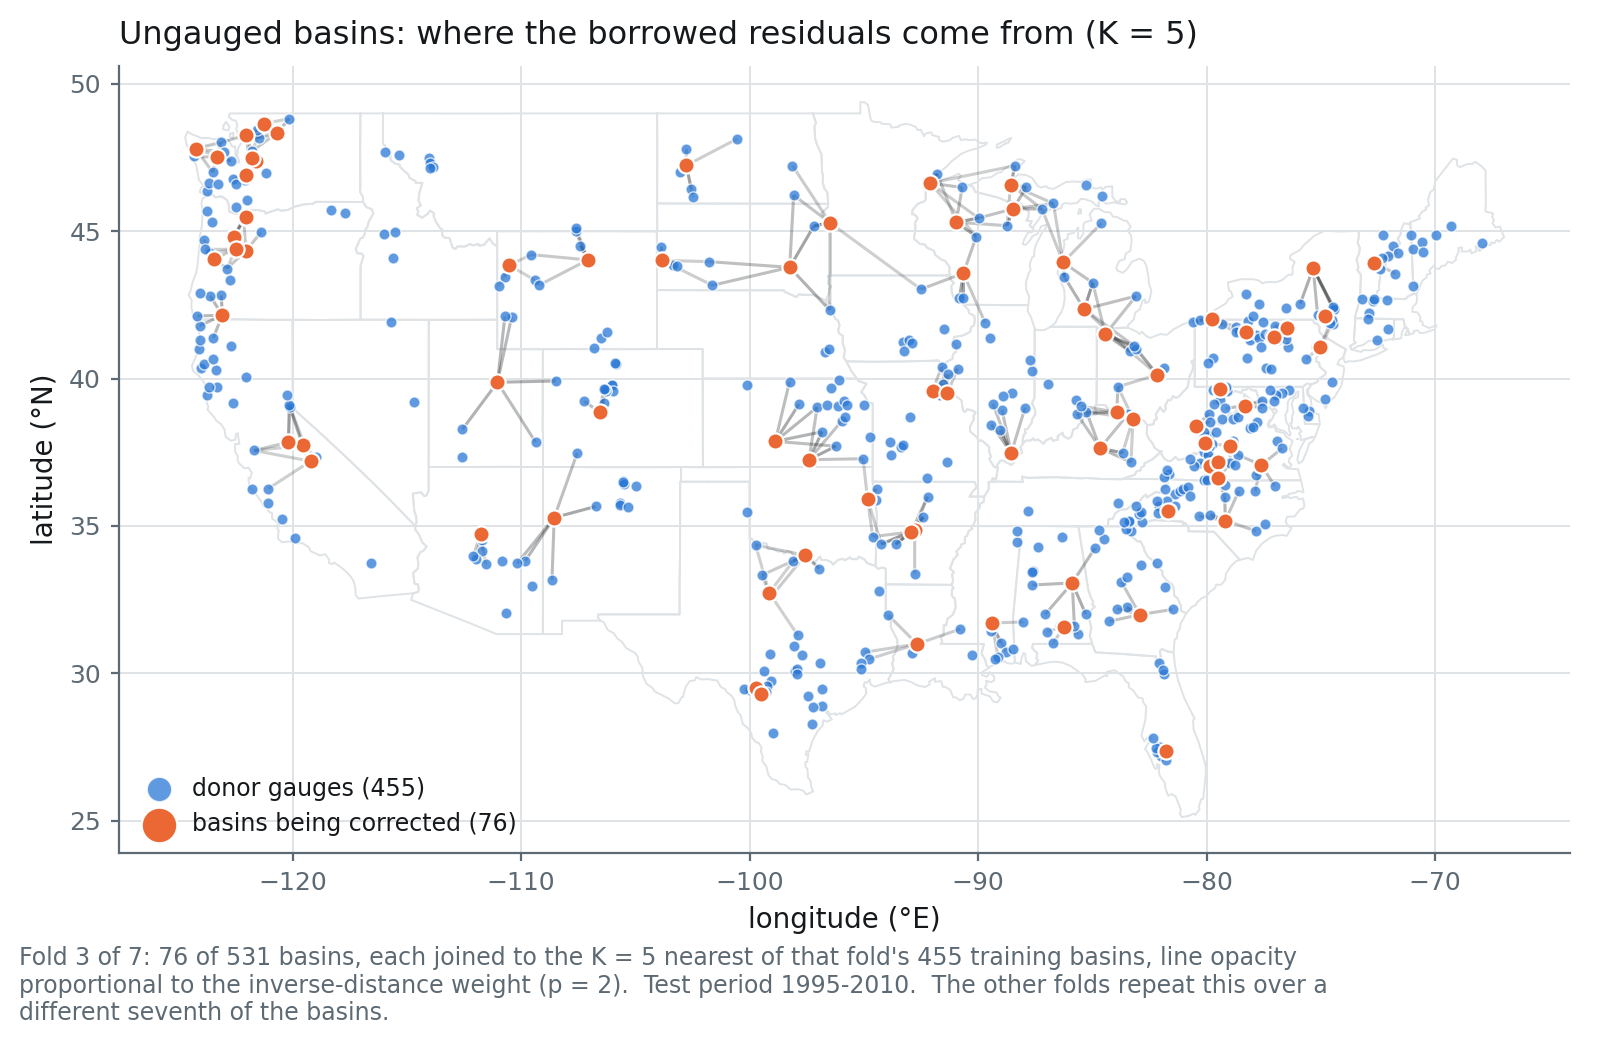
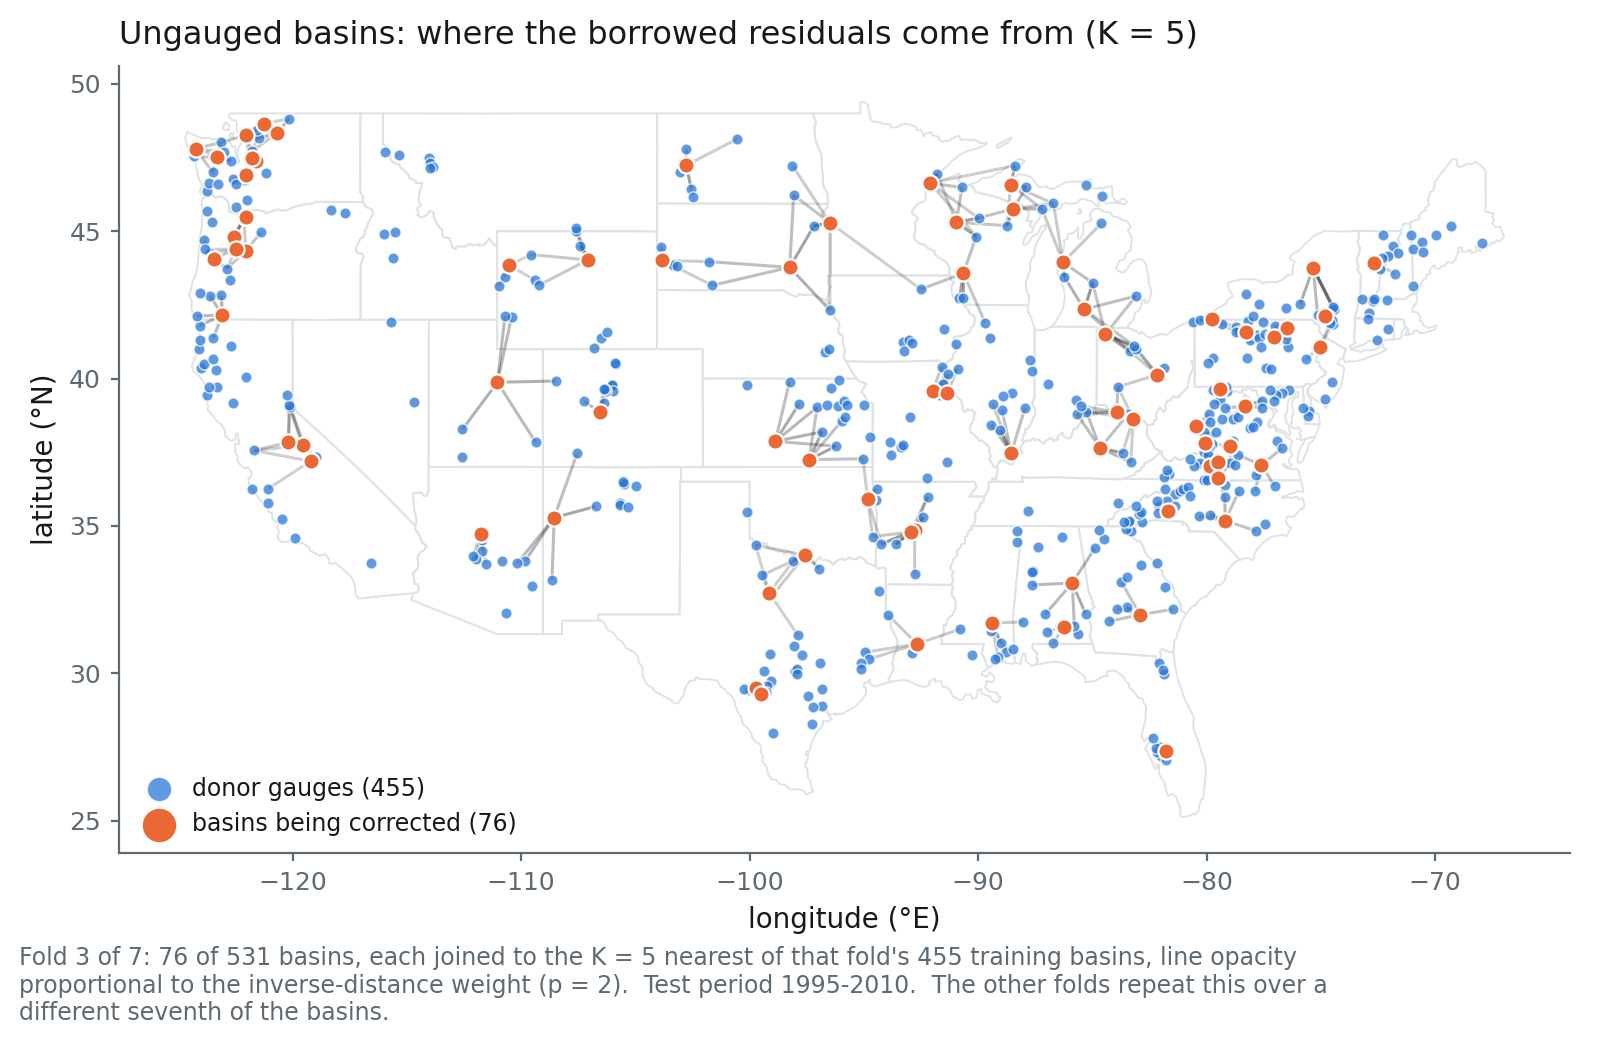
Maps: ticks without gridlines. Hyperparameter figure: thin lines, sparse grid
palette.py's style() gains grid=False, used by both map figures -- ticks and
the state outline give plenty of positional reference without lat/lon
gridlines competing with the data for the same thin grey ink. Caught a real
matplotlib gotcha along the way: ax.grid(False, color=..., lw=...) silently
re-enables the grid whenever a line-property kwarg rides along with
visible=False, so the off case is now its own call.

Hyperparameter figure: every sampled K and lambda value keeps a tick mark
(major or minor), but only ~6 evenly-spaced ones per panel are labelled and
gridded, instead of a gridline at all 20 K values and all 21 lambda values.
Per-fold profile lines thinner (1.5/2.2 -> 1.0/1.6), selected-setting markers
smaller (ms 7 -> 5, edge 1.5 -> 1.2).

diff --git a/figures/make_hyperparam.py b/figures/make_hyperparam.py
@@ -28,7 +28,7 @@ import matplotlib.pyplot as plt  # noqa: E402
 HERE = os.path.dirname(os.path.abspath(__file__))
 sys.path.insert(0, HERE)
 from evaluate import read_info, read_tuning  # noqa: E402
-from palette import CELL_TITLE, CORRECTED, INK, LABEL, PANEL, TITLE  # noqa: E402
+from palette import CELL_TITLE, CORRECTED, INK, LABEL, MUTE, PANEL, TITLE  # noqa: E402
 from palette import caption, style  # noqa: E402
 
 # What the cross-validation pool is, per cell -- not the same thing as the basins being
@@ -46,7 +46,8 @@ def main(cell):
     info = read_info(cell)
     labels = sorted(df.label.unique())
     single = len(labels) == 1
-    lw, alpha = (2.2, 1.0) if single else (1.5, 0.75)
+    lw, alpha = (1.6, 1.0) if single else (1.0, 0.75)
+    ms = 5
 
     fig, axes = plt.subplots(1, 3, figsize=(8.4, 4.4), sharey=True)
     optima = {col: [] for col, _, _ in AXES}
@@ -62,15 +63,21 @@ def main(cell):
             grid = sorted(df[col].unique())
             ax.plot([grid.index(v) for v in sub[col]], sub.score, color=CORRECTED, lw=lw,
                     alpha=alpha, zorder=3)
-            ax.plot([grid.index(best[col])], [best.score], "o", ms=7, color=CORRECTED,
-                    markeredgecolor="white", markeredgewidth=1.5, zorder=5)
+            ax.plot([grid.index(best[col])], [best.score], "o", ms=ms, color=CORRECTED,
+                    markeredgecolor="white", markeredgewidth=1.2, zorder=5)
             optima[col].append(best[col])
 
     for ax, (col, xlabel, title) in zip(axes, AXES):
         grid = sorted(df[col].unique())
-        step = max(1, -(-len(grid) // 6))  # at most ~6 labels in a narrow panel
-        ax.set_xticks(range(len(grid)))
-        ax.set_xticklabels([f"{v:g}" if i % step == 0 else "" for i, v in enumerate(grid)])
+        step = max(1, -(-len(grid) // 6))  # at most ~6 labelled, gridded positions
+        major = list(range(0, len(grid), step))
+        minor = [i for i in range(len(grid)) if i not in major]
+        # Every sampled value still gets a tick mark (major or minor); only the major ones
+        # carry a label and a gridline, so the panel isn't a wall of vertical lines.
+        ax.set_xticks(major)
+        ax.set_xticklabels([f"{grid[i]:g}" for i in major])
+        if minor:
+            ax.set_xticks(minor, minor=True)
         ax.set_xlabel(xlabel, color=INK, fontsize=LABEL)
         # Panel letter in the bottom-left corner, in axis fractions so it sits inside the
         # plot regardless of the y-limits below.
@@ -79,8 +86,8 @@ def main(cell):
         if ax is axes[0]:  # one legend for the figure: all three panels draw the same two things
             ax.plot([], [], color=CORRECTED, lw=lw, alpha=alpha,
                     label="profile" if single else "per-fold profile")
-            ax.plot([], [], "o", ms=7, color=CORRECTED, markeredgecolor="white",
-                    markeredgewidth=1.5, label="selected")
+            ax.plot([], [], "o", ms=ms, color=CORRECTED, markeredgecolor="white",
+                    markeredgewidth=1.2, label="selected")
             ax.legend(frameon=False, loc="lower right", fontsize=LABEL - 2, labelcolor=INK)
         # Floor at 0.6 rather than the tight span of the surface: the surface itself only
         # spans a few hundredths of KGE, and zooming all the way to it (as an earlier version
@@ -89,6 +96,7 @@ def main(cell):
         pad = 0.06 * (df.score.max() - df.score.min())
         ax.set_ylim(0.7, df.score.max() + pad)
         style(ax)
+        ax.tick_params(which="minor", colors=MUTE, length=2)  # tick mark only, no gridline
     axes[1].tick_params(labelleft=False)
     axes[2].tick_params(labelleft=False)
     axes[0].set_ylabel("Median cross-validation KGE", color=INK, fontsize=LABEL)

diff --git a/figures/palette.py b/figures/palette.py
@@ -40,9 +40,19 @@ CELL_BLURB = {"gauged": "each basin reconstructed as if its own gauge had gone d
 TITLE, PANEL, LABEL, TICK, CAPTION = 11.5, 10.5, 10, 9, 8.5
 
 
-def style(ax):
-    """Recessive grid and axes: the data carries the ink, the frame does not."""
-    ax.grid(True, color=GRID, lw=0.7, zorder=0)
+def style(ax, grid=True):
+    """Recessive grid and axes: the data carries the ink, the frame does not.
+
+    `grid=False` for the map figures -- lat/lon gridlines compete with the state outline and
+    the data points for the same thin grey ink; the axis ticks alone are enough to read
+    coordinates off. Tick marks are unaffected either way.
+    """
+    # Two calls, not one with `visible=grid`: matplotlib re-enables the grid whenever any
+    # line-property kwarg is passed alongside visible=False, regardless of its value.
+    if grid:
+        ax.grid(True, color=GRID, lw=0.7, zorder=0)
+    else:
+        ax.grid(False)
     ax.set_axisbelow(True)
     for side in ("top", "right"):
         ax.spines[side].set_visible(False)

diff --git a/figures/make_change_map.py b/figures/make_change_map.py
@@ -91,7 +91,7 @@ def main(cell):
         ax.set_aspect(1 / np.cos(np.radians(lat.mean())))
         ax.set_xlabel("longitude (°E)", color=INK, fontsize=LABEL)
         ax.set_ylabel("latitude (°N)", color=INK, fontsize=LABEL)
-        style(ax)
+        style(ax, grid=False)
 
         cb = fig.colorbar(sc, ax=ax, extend="both", pad=0.02, fraction=0.046)
         cb.set_label(f"change in {label.split(',')[0]}", color=INK, fontsize=LABEL - 1)

diff --git a/figures/make_donor_map.py b/figures/make_donor_map.py
@@ -88,7 +88,7 @@ def main(cell):
                  color=INK, fontsize=TITLE, loc="left", pad=8)
     ax.legend(frameon=False, loc="lower left", fontsize=LABEL - 1.5, labelcolor=INK,
               handletextpad=0.4, borderpad=0.2, markerscale=2.2)
-    style(ax)
+    style(ax, grid=False)
 
     group = "Fold" if cell == "ungauged" else "Group"
     pool = (f"that fold's {len(donor)} training basins" if cell == "ungauged"
